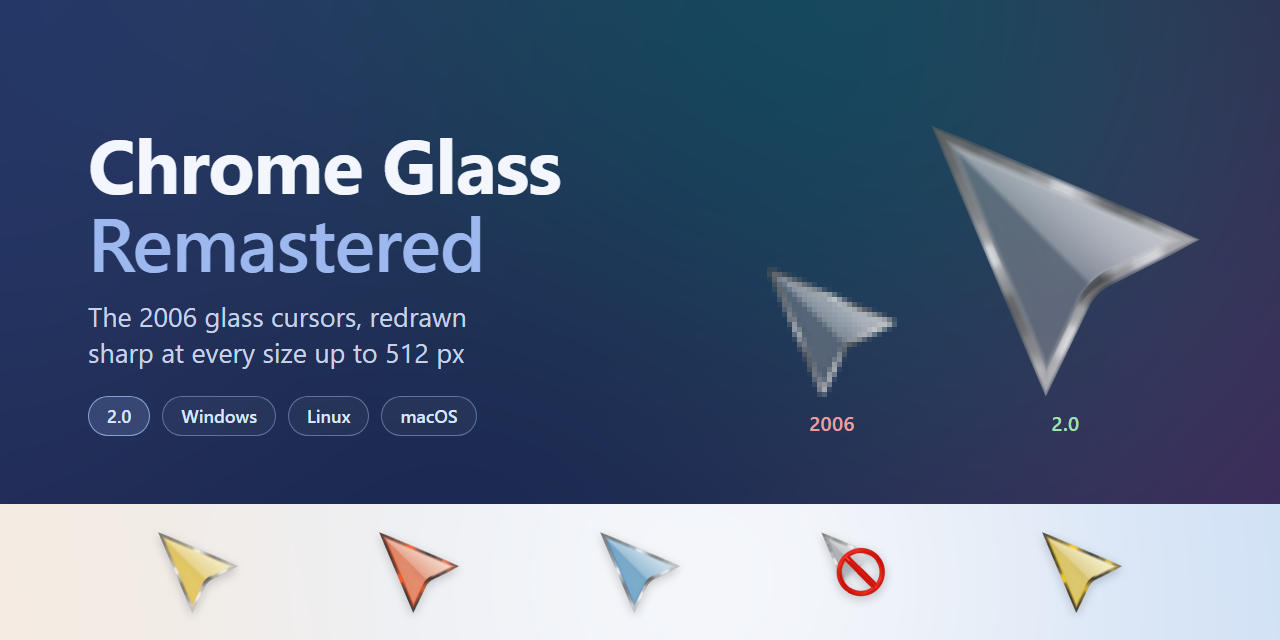
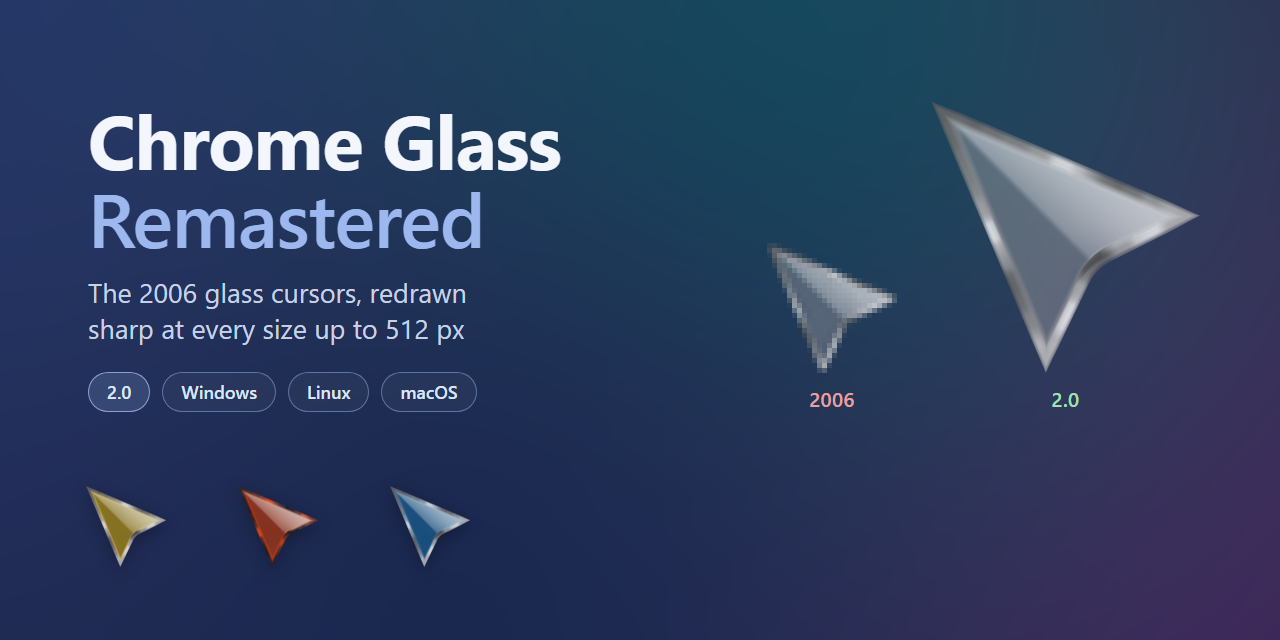
Оставил на обложке три цветных курсора без светлой полосы

diff --git a/tools/gen_social_preview.py b/tools/gen_social_preview.py
@@ -5,9 +5,8 @@ repo's Settings > Social preview).
 
 The cursors are drawn by the pipeline itself, the same calls gen_hero.py
 makes: the author's 32 px Arrow blown up pixel for pixel beside the 2.0
-Arrow drawn at 320, on the hero's dark wallpaper, and along the bottom a
-row of the set's coloured cursors at 96 on the hero's light wallpaper, where
-the glass keeps its colour (on the dark one it goes dull). Text is laid out as HTML
+Arrow drawn at 320, on the hero's dark wallpaper, and below them three of
+the set's coloured cursors at 96. Text is laid out as HTML
 and rendered through a headless Chromium/Edge binary.
 
 Usage:
@@ -32,7 +31,7 @@ HERE = os.path.dirname(os.path.abspath(__file__))
 sys.path.insert(0, os.path.dirname(HERE))
 sys.path.insert(0, HERE)
 from cgr import hybrid as H         # noqa: E402
-from gen_hero import DARK, LIGHT, cursor, wallpaper  # noqa: E402
+from gen_hero import DARK, cursor, wallpaper  # noqa: E402
 
 ROOT = os.path.dirname(HERE)
 OUT_HTML = os.path.join(ROOT, "tools", "_social_preview.html")
@@ -41,10 +40,8 @@ OUT_PNG = os.path.join(ROOT, "assets", "social-preview.png")
 NEW = 320           # the 2.0 Arrow, shown 1:1
 OLD = 5             # the 2006 Arrow, each of its pixels as a 5 px block
 ROW = 96
-BAND = 136          # the light strip at the bottom
-# only the set's coloured ones: the silver ones are what the big arrow shows
-ROW_NAMES = [("UpArrow", 0), ("Wait", 2), ("Arrow_Down", 0), ("NO", 7),
-             ("AppStarting", 2)]
+# the set's yellow, red and blue: the silver is what the big arrow shows
+ROW_NAMES = [("UpArrow", 0), ("Wait", 2), ("Arrow_Down", 0)]
 
 
 def b64(im):
@@ -60,9 +57,7 @@ def images():
     old = old.crop(old.getchannel("A").getbbox())
     old = old.resize((old.width * OLD, old.height * OLD), Image.NEAREST)
     row = [b64(cursor(n, i, ROW)) for n, i in ROW_NAMES]
-    bg = wallpaper(1280, 640, DARK)
-    bg.paste(wallpaper(1280, BAND, LIGHT), (0, 640 - BAND))
-    return {"bg": b64(bg.convert("RGB")),
+    return {"bg": b64(wallpaper(1280, 640, DARK).convert("RGB")),
             "new": b64(new), "old": b64(old), "row": row}
 
 
@@ -73,7 +68,7 @@ html,body{{margin:0;padding:0;width:1280px;height:640px;overflow:hidden;font-fam
 /* GitHub's repo page shows this card as a wide banner and crops the top and
    bottom, keeping roughly the middle 65%; everything that matters stays in
    that band. */
-.safe{{position:absolute;left:0;top:80px;width:1280px;height:400px;box-sizing:border-box;
+.safe{{position:absolute;left:0;top:56px;width:1280px;height:400px;box-sizing:border-box;
   padding:0 80px 0 88px;display:flex;align-items:center;justify-content:space-between;}}
 .left{{display:flex;flex-direction:column;gap:20px;}}
 .title{{font-size:76px;font-weight:700;color:#f3f6fc;line-height:1.02;letter-spacing:-1px;}}
@@ -90,9 +85,8 @@ html,body{{margin:0;padding:0;width:1280px;height:640px;overflow:hidden;font-fam
 .cap{{font-size:20px;font-weight:600;letter-spacing:.3px;}}
 .old .cap{{color:#e8a0a0;}}
 .new .cap{{color:#a0e2b0;}}
-.row{{position:absolute;left:0;top:{640 - BAND}px;width:1280px;height:{BAND}px;box-sizing:border-box;padding:0 150px;
-  display:flex;align-items:center;justify-content:space-between;}}
-.row img{{display:block;width:{ROW}px;height:{ROW}px;filter:drop-shadow(0 3px 5px rgba(0,0,0,0.25));}}
+.row{{position:absolute;left:78px;top:478px;height:{ROW}px;display:flex;align-items:center;gap:56px;}}
+.row img{{display:block;width:{ROW}px;height:{ROW}px;filter:drop-shadow(0 4px 8px rgba(0,0,0,0.4));}}
 </style></head><body>
 <div class=cover>
   <div class=safe>
